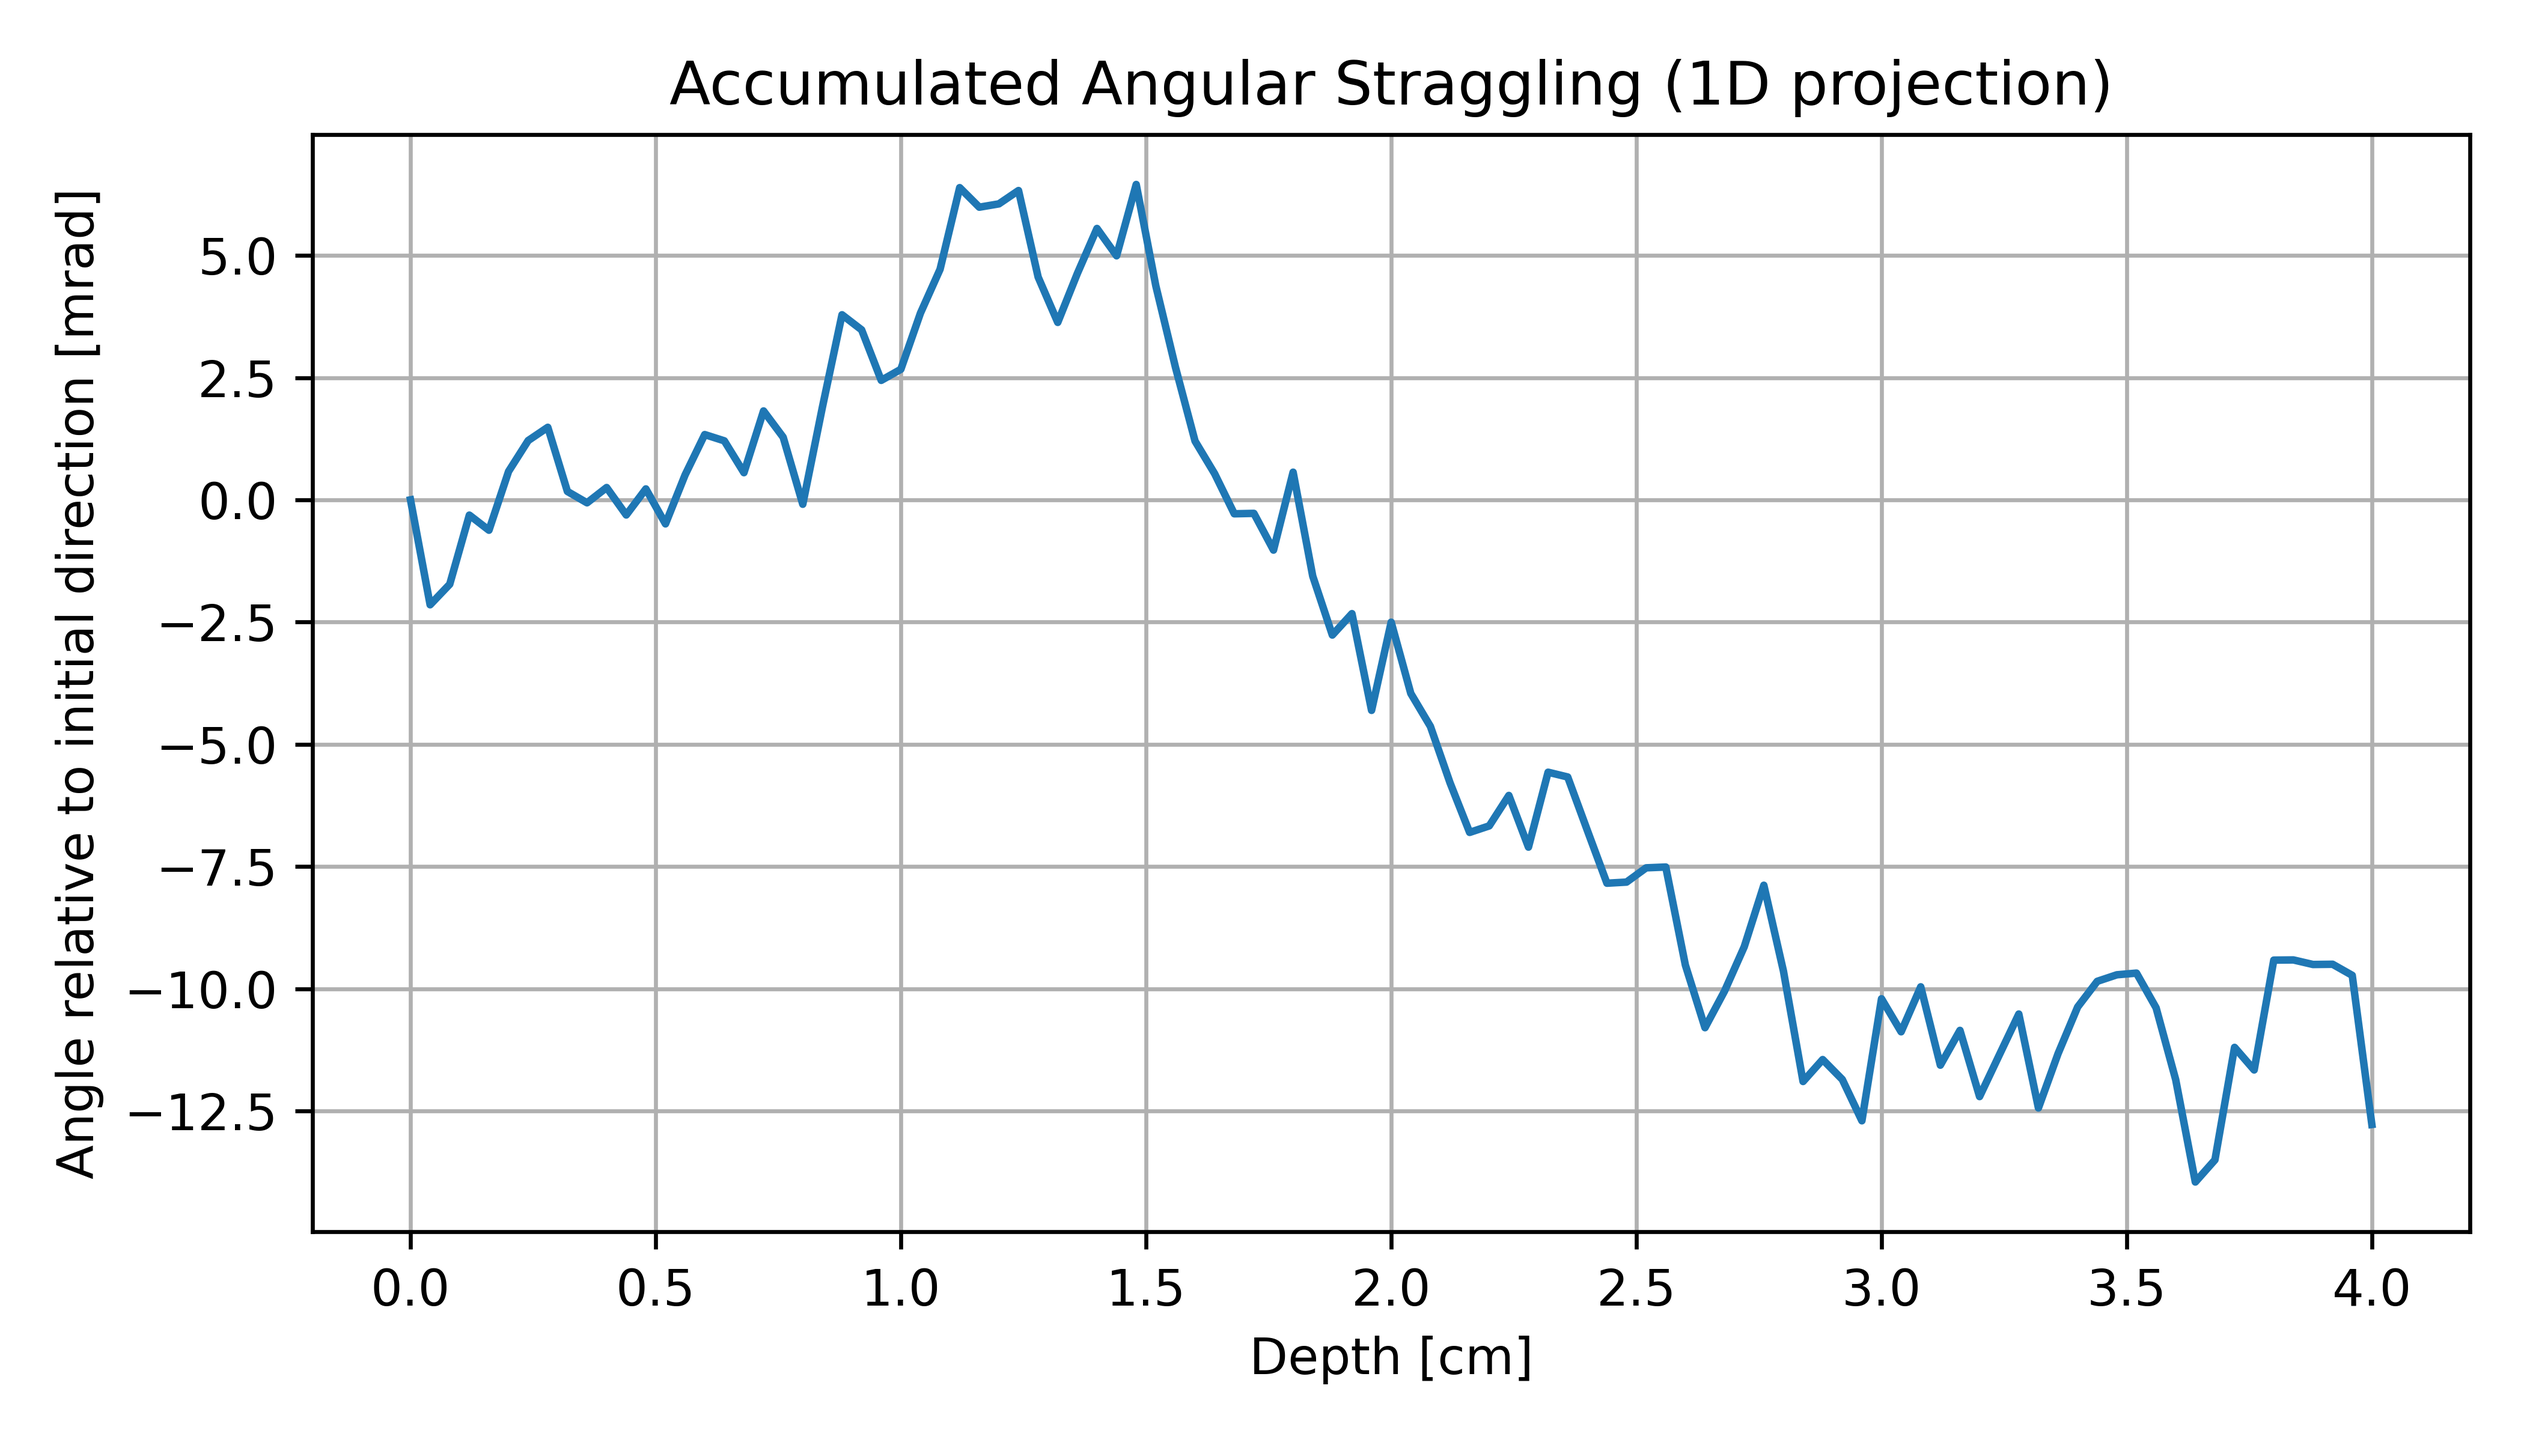
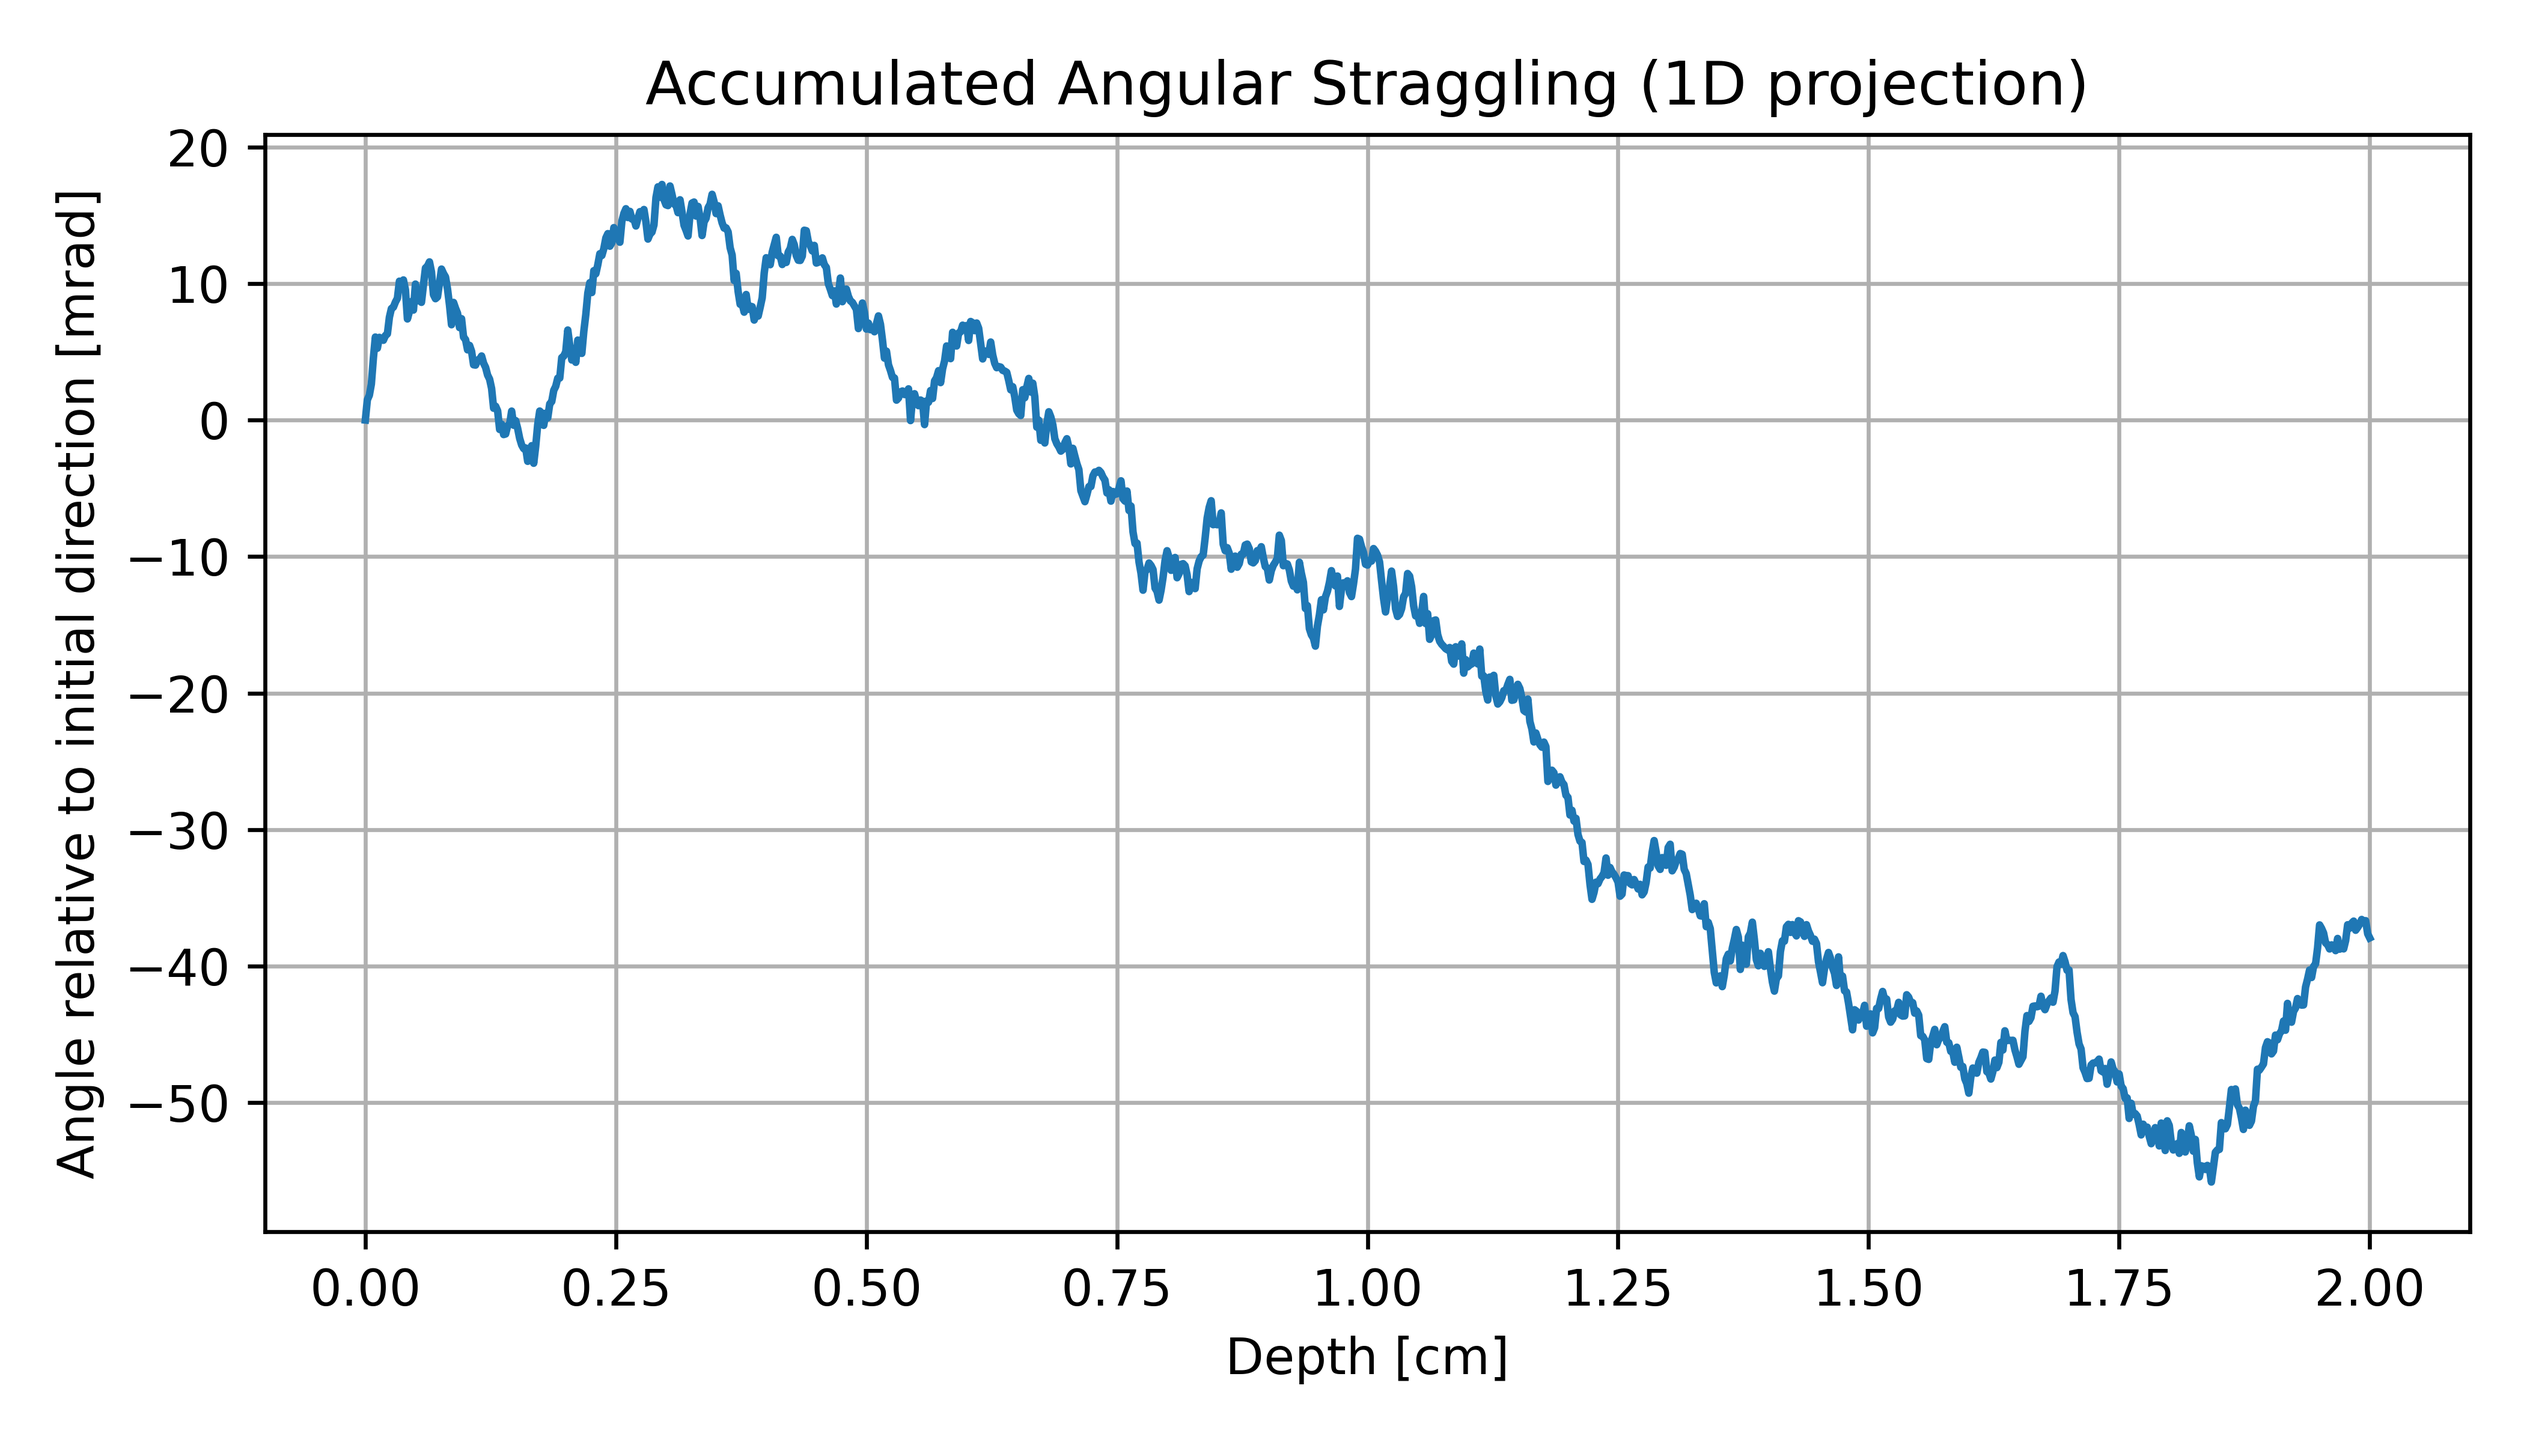
Adding more functionality to straggling

diff --git a/straggling.py b/straggling.py
@@ -42,30 +42,46 @@ plt.tight_layout()
 plt.savefig('straggling.png', dpi=600)
 plt.savefig('straggling.pdf')
 
-np.random.seed(100)  # for reproducibility
-
-# Initial direction angle (in radians)
-theta = 0.0
-theta_history = [theta]
-
 p = 500  # momentum in MeV/c
-L = 4.0  # length of material in cm
+L = 2.0  # length of material in cm
 dx = L / N  # step size in cm
+N = 1000  # numbr of steps
 
-# Step through the material
-for _ in range(N):
-    sigma = f.highland_theta(p, f.beta(mass_muon, p), z_muon, dx,
-                             X0_fused_silica)
-    dtheta = np.random.normal(0, sigma)  # random angular kick
-    theta += dtheta  # accumulate angle
-    theta_history.append(theta)
+theta_tot = 0.0
 
-# Convert angle history to mrad
-theta_history_mrad = np.array(theta_history)
+theta_history_seeds = []
+
+# Loop over 100 different seeds
+for i in range(100):
+    np.random.seed(i)  # for reproducibility
+
+    # Initial direction angle (in radians)
+    theta = 0.0
+    theta_history = [theta]
+
+    # Step through the material
+    for _ in range(N):
+        sigma = f.highland_theta(p, f.beta(mass_muon, p), z_muon, dx,
+                                 X0_fused_silica)
+        theta = np.random.normal(theta, sigma)  # random angular kick
+        theta_history.append(theta)
+
+    theta_history_seeds.append(theta_history)
+
+    # Convert angle history to mrad
+    theta_history_mrad = np.array(theta_history)
+
+    print(theta_history_mrad.std())
+
+    theta_tot += theta_history_mrad.std()
+
+theta_tot /= 100
+
+print(theta_tot)
 
 # Plot
 fig = plt.figure(figsize=(7, 4))
-plt.plot(np.linspace(0, L, N + 1), theta_history_mrad)
+plt.plot(np.linspace(0, L, N + 1), theta_history_seeds[0])
 plt.xlabel("Depth [cm]")
 plt.ylabel("Angle relative to initial direction [mrad]")
 plt.title("Accumulated Angular Straggling (1D projection)")

diff --git a/dispersion.py b/dispersion.py
@@ -21,7 +21,7 @@ for i in range(3):
 
   plt.fill_between(xx, yy1, yy2, color=colors[i], alpha=0.1, label=labels[i])
   plt.plot(xx, yy1, color=colors[i])
-  plt.plot(xx, yy2,proposalproposal color=colors[i])
+  plt.plot(xx, yy2, color=colors[i])
 
 plt.margins(x=0)
 plt.ylabel("$\\theta_c$ [rad]")
@@ -30,7 +30,7 @@ plt.ylim(0.5, 0.9)
 plt.legend()
 plt.grid()
 #plt.title('Group Velocity')
-fig.tight_layout()
+plt.tight_layout()
 plt.savefig('dispersion.pdf')
 plt.savefig('dispersion.png', dpi=600)
 plt.show()
